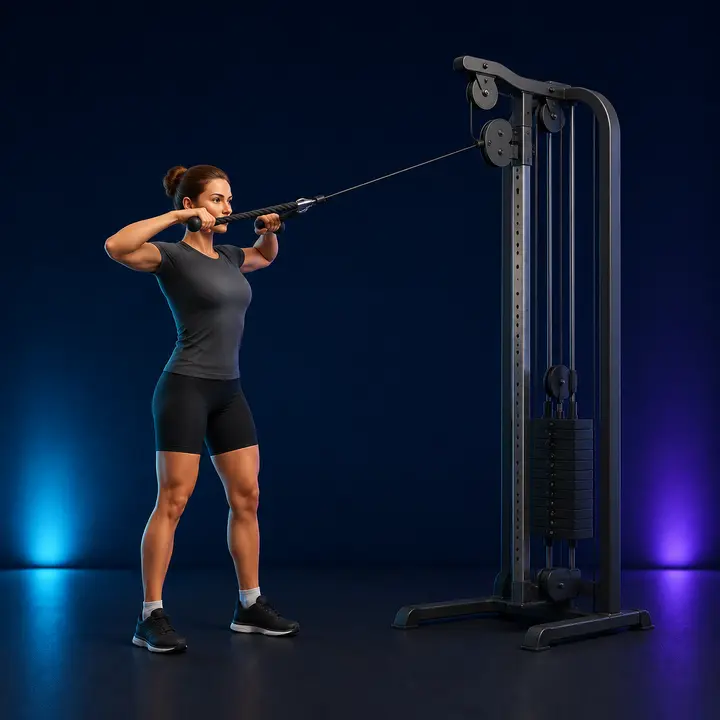
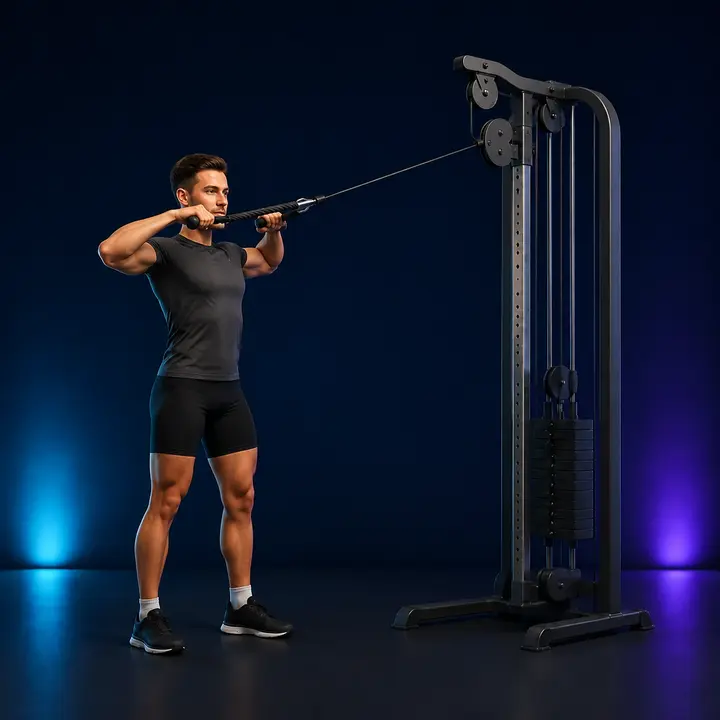
feat: replace exercise models with men
Replace all twelve exercise illustrations with male models while preserving equipment and form, then refresh cache assets for iOS Safari.

Changed region(s): [[0.1222, 0.2139, 0.4278, 0.9167], [0.825, 0.1222, 0.8556, 0.1528], [0.3056, 0.4889, 0.3361, 0.5194]]

diff --git a/index.html b/index.html
@@ -11,11 +11,11 @@
 <title>12-тижневий health tracker</title>
 <link rel="manifest" href="manifest.webmanifest" />
 <link rel="icon" href="icon.svg" type="image/svg+xml" />
-<link rel="stylesheet" href="style.css?v=9" />
-<link rel="stylesheet" href="training.css?v=9" />
-<link rel="stylesheet" href="notes.css?v=9" />
-<link rel="stylesheet" href="exercise-details.css?v=9" />
-<link rel="stylesheet" href="enhancements.css?v=9" />
+<link rel="stylesheet" href="style.css?v=10" />
+<link rel="stylesheet" href="training.css?v=10" />
+<link rel="stylesheet" href="notes.css?v=10" />
+<link rel="stylesheet" href="exercise-details.css?v=10" />
+<link rel="stylesheet" href="enhancements.css?v=10" />
 </head>
 <body>
 <div class="shell">
@@ -208,8 +208,8 @@
   <button class="exercise-image-close" type="button" onclick="closeExerciseImage()" aria-label="Закрити">×</button>
   <figure><img src="" alt=""><figcaption></figcaption></figure>
 </dialog>
-<script src="app.js?v=9"></script>
-<script src="exercise-details.js?v=9"></script>
-<script src="enhancements.js?v=9"></script>
+<script src="app.js?v=10"></script>
+<script src="exercise-details.js?v=10"></script>
+<script src="enhancements.js?v=10"></script>
 </body>
 </html>

diff --git a/sw.js b/sw.js
@@ -1,8 +1,8 @@
-const CACHE_NAME="health-tracker-v9";
+const CACHE_NAME="health-tracker-v10";
 const APP_SHELL=[
-  "./","./index.html","./style.css?v=9","./training.css?v=9","./notes.css?v=9",
-  "./exercise-details.css?v=9","./enhancements.css?v=9","./app.js?v=9",
-  "./exercise-details.js?v=9","./enhancements.js?v=9","./manifest.webmanifest","./icon.svg",
+  "./","./index.html","./style.css?v=10","./training.css?v=10","./notes.css?v=10",
+  "./exercise-details.css?v=10","./enhancements.css?v=10","./app.js?v=10",
+  "./exercise-details.js?v=10","./enhancements.js?v=10","./manifest.webmanifest","./icon.svg",
   "./assets/exercises/stationary-bike.webp","./assets/exercises/chest-press.webp","./assets/exercises/seated-row.webp",
   "./assets/exercises/leg-curl.webp","./assets/exercises/leg-press.webp","./assets/exercises/hip-thrust.webp",
   "./assets/exercises/pallof-press.webp","./assets/exercises/elliptical.webp","./assets/exercises/lat-pulldown.webp",
